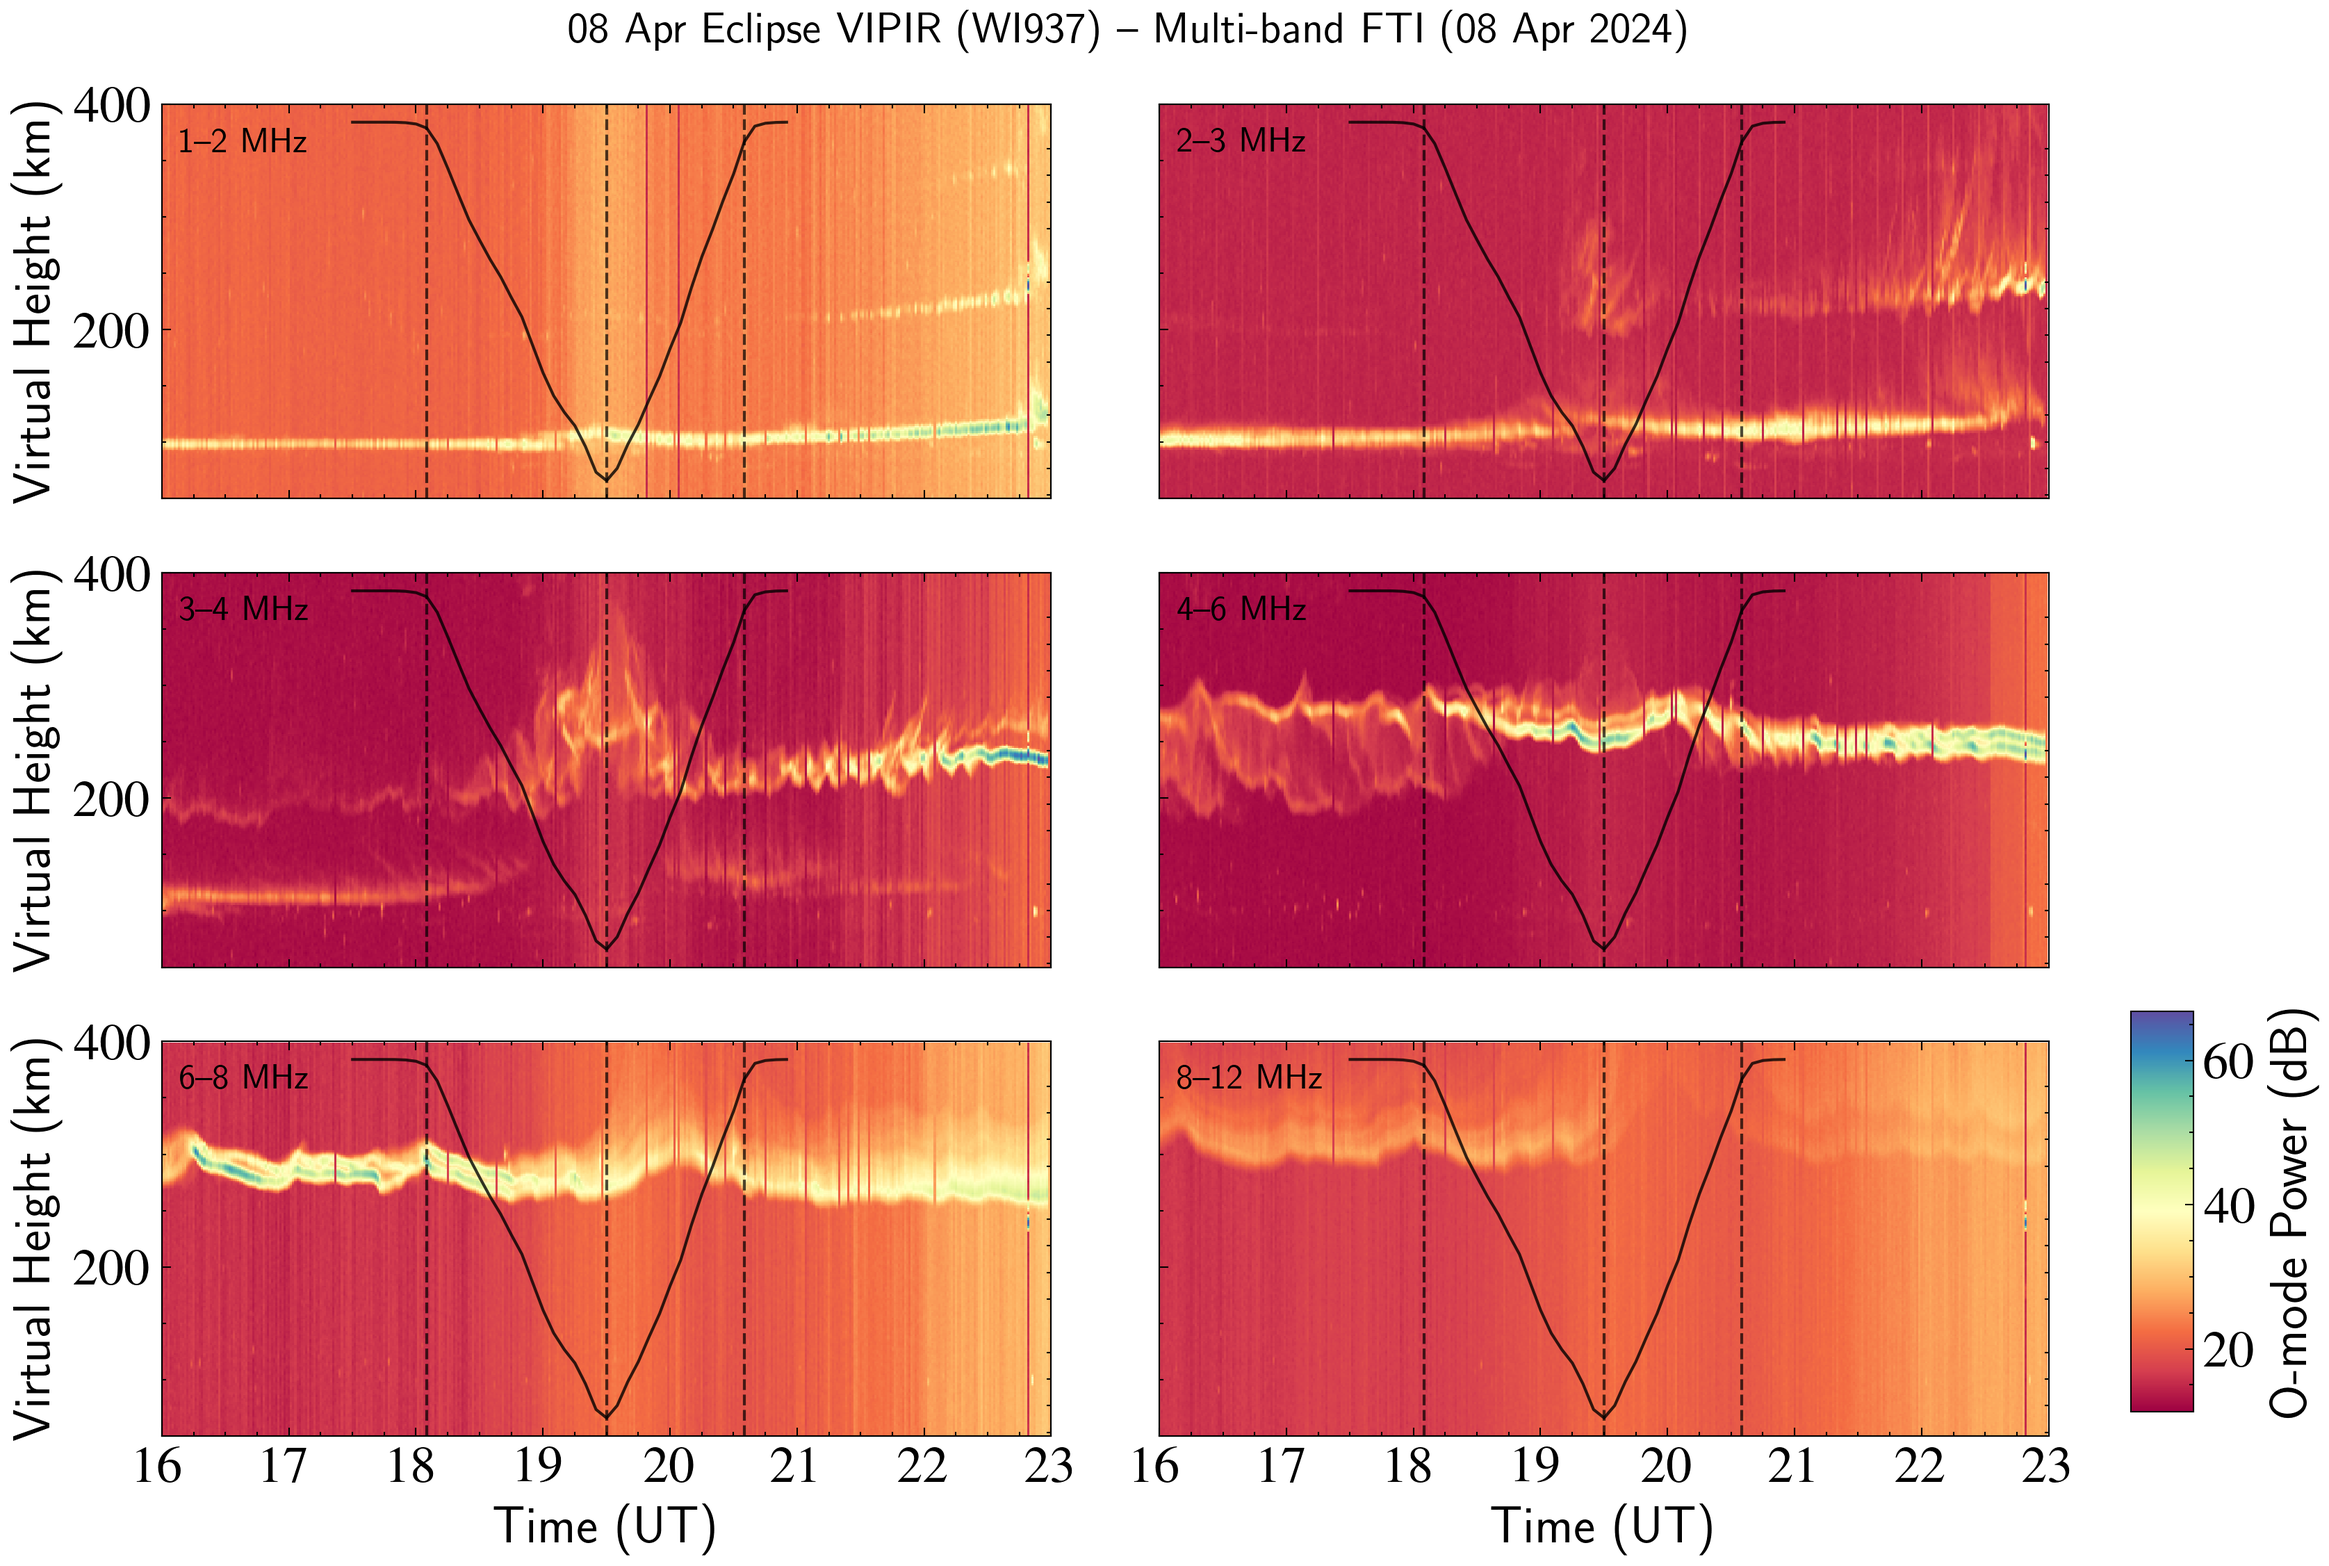
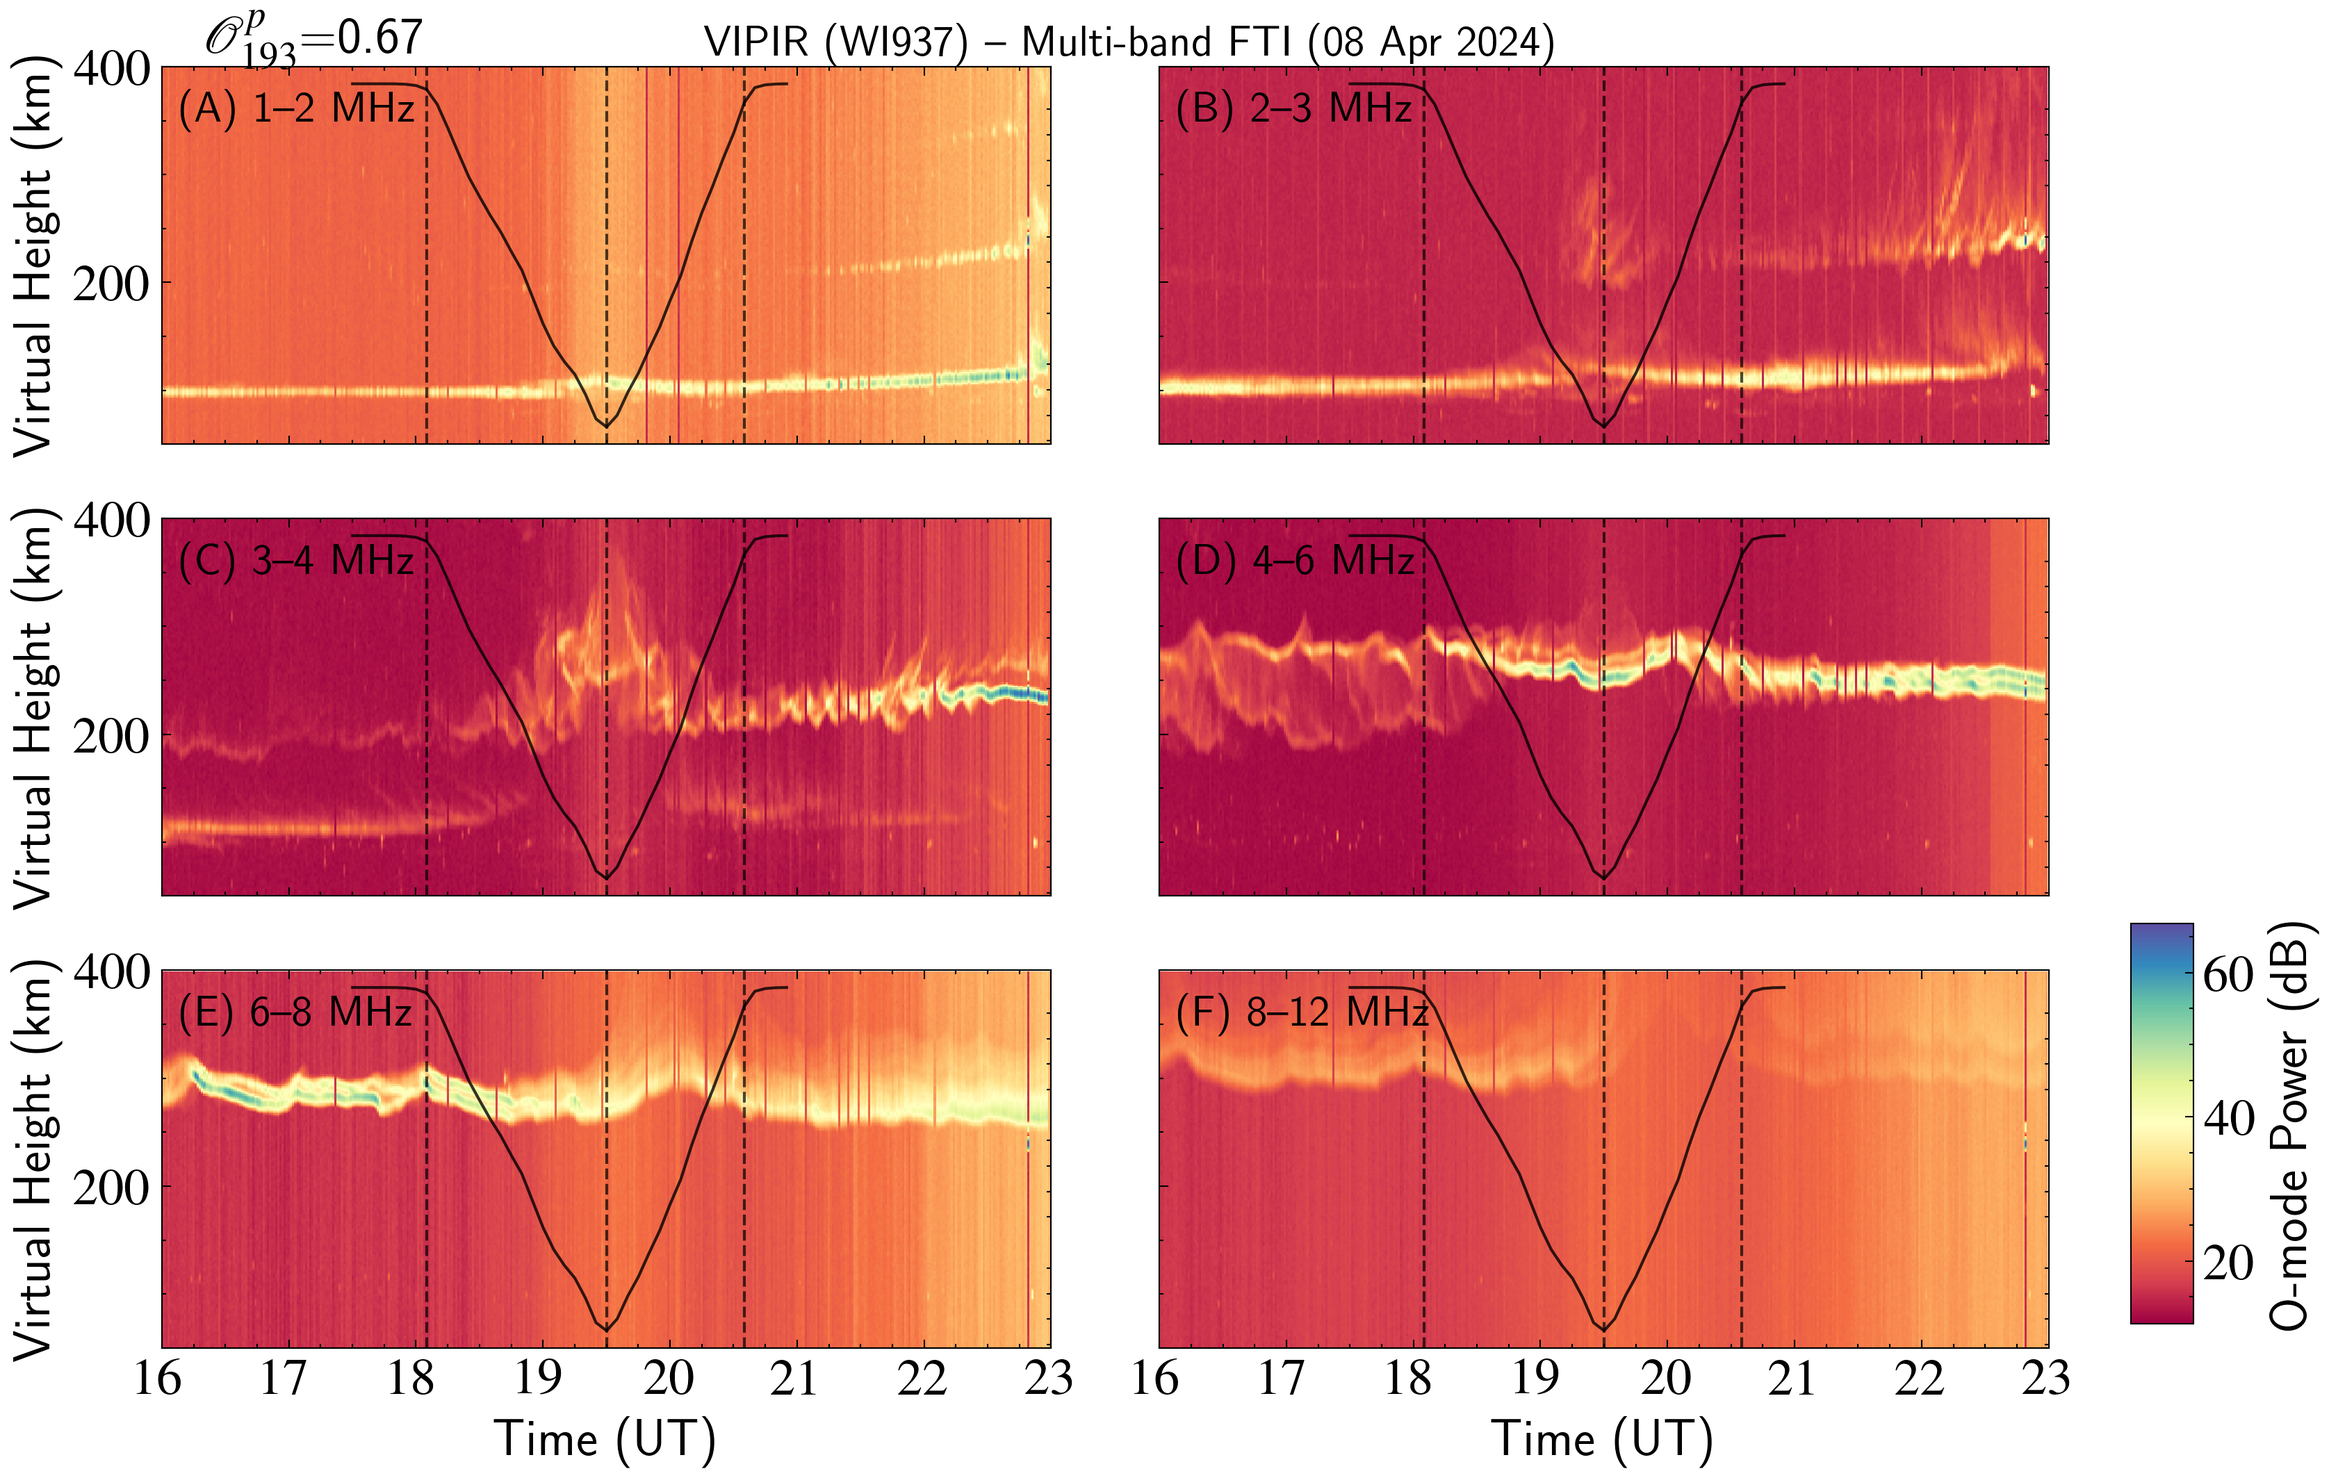
Updated figures and FTI

diff --git a/apep/2024/fti.py b/apep/2024/fti.py
@@ -236,11 +236,11 @@ def plot_multi_band_fti(
         ax.text(
             0.02,
             0.94,
-            f"{band[0]:.0f}–{band[1]:.0f} MHz",
+            f"({chr(65+idx)}) {band[0]:.0f}–{band[1]:.0f} MHz",
             transform=ax.transAxes,
             ha="left",
             va="top",
-            fontsize=12,
+            fontsize=15,
             fontweight="bold",
         )
         ax.set_xlim(DATE_LIM)
@@ -265,6 +265,18 @@ def plot_multi_band_fti(
         for k in ecl_data.keys():
             ax.axvline(ecl_data[k], color="k", linestyle="--", linewidth=1.0, alpha=0.7)
         
+        if idx == 0:
+            ax.text(
+                0.05,
+                1.15,
+                r"$\mathcal{O}_{193}^p$=%.2f"%peak_of,
+                transform=ax.transAxes,
+                ha="left",
+                va="top",
+                fontsize=18,
+                fontweight="bold",
+            )
+
         tax = ax.twinx()
         tax.plot(
             segment_times[::5],
@@ -292,10 +304,10 @@ def plot_multi_band_fti(
             ax.tick_params(labelbottom=False)
 
     fig.suptitle(
-        f"08 Apr Eclipse VIPIR ({station}) – Multi-band FTI ({date:%d %b %Y})",
+        f"VIPIR ({station}) – Multi-band FTI ({date:%d %b %Y})",
         fontsize=15,
         fontweight="bold",
-        y=0.90,
+        y=0.85,
     )
 
     if im is not None:
